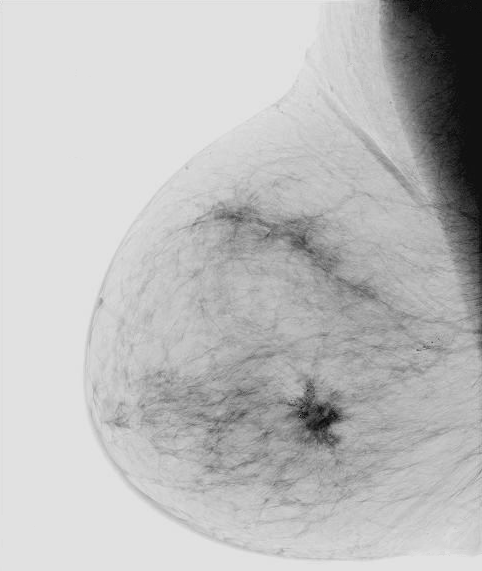
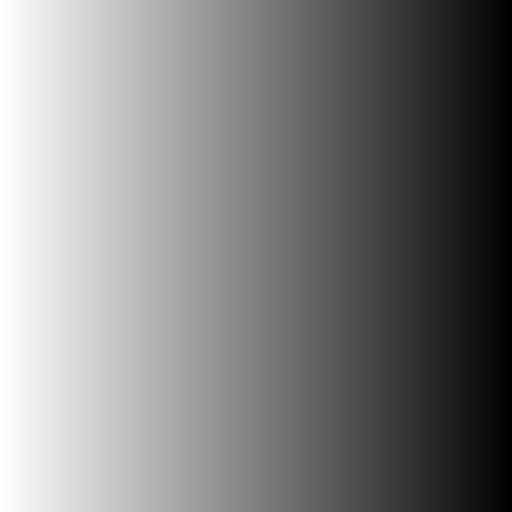
Blog updated

diff --git a/src/app/blog/cg-lab/[slug]/labContents.ts b/src/app/blog/cg-lab/[slug]/labContents.ts
@@ -104,7 +104,7 @@ bt3,
 "",
 `In Python, **OpenCV** represents images as NumPy arrays with shape ${bt}(height, width, channels)${bt}.`,
 "",
-"> All examples below use **lena.png** — the classic test image from Gonzalez's Digital Image Processing book (Fig. 2.x).",
+"> All examples below use **Fig0630 — Strawberries** from Gonzalez's Digital Image Processing book (Fig. 6.30). You can use any `.png` or `.jpg` file.",
 "",
 "## Read & Display Image",
 "",
@@ -112,11 +112,11 @@ bt3 + "python",
 "import cv2",
 "import matplotlib.pyplot as plt",
 "",
-"img = cv2.imread('lena.png')              # reads as BGR",
+"img = cv2.imread('strawberries.png')      # reads as BGR",
 "img_rgb = cv2.cvtColor(img, cv2.COLOR_BGR2RGB)",
 "",
 "plt.imshow(img_rgb)",
-"plt.title('Lena — Original')",
+"plt.title('Strawberries — Original')",
 "plt.axis('off')",
 "plt.show()",
 bt3,
@@ -140,17 +140,19 @@ bt3 + "python",
 'print(f"Total pixels: {img.shape[0] * img.shape[1]}")',
 bt3,
 "",
-"For the Lena image the output is:",
+"For the Strawberries image (Fig0630) the output is:",
 "",
 bt3,
-"Shape    : (512, 512, 3)",
-"Height   : 512 px",
-"Width    : 512 px",
+"Shape    : (666, 666, 3)",
+"Height   : 666 px",
+"Width    : 666 px",
 "Channels : 3",
-"Total pixels: 262144",
+"Total pixels: 443556",
 bt3,
 "",
 "## Load from PC Storage",
+"",
+"> No visual output for this task — it is code-only. The image loads silently into memory.",
 "",
 bt3 + "python",
 "import os",
@@ -177,6 +179,8 @@ bt3 + "python",
 bt3,
 "",
 "## Read 1000 Images",
+"",
+"> No visual output for this task — images are loaded into a list in memory for batch processing.",
 "",
 bt3 + "python",
 "import glob",
@@ -241,32 +245,32 @@ bt3,
 "cg-lab-3-intensity-transformations": [
 "## What are Intensity Transformations?",
 "",
-`Intensity transformations change pixel values based on a mapping function ${bt}s = T(r)${bt}, where ${bt}r${bt} is the input intensity and ${bt}s${bt} is the output intensity. These are **point operations** — each pixel is processed independently.`,
+`Intensity transformations change pixel values based on a mapping function ${bt}s = T(r)${bt}, where ${bt}r${bt} is the input intensity and ${bt}s${bt} is the output intensity. These are **point operations** \u2014 each pixel is processed independently.`,
 "",
-"> Reference: Gonzalez & Woods, *Digital Image Processing*, Chapter 3 — Intensity Transformations and Spatial Filtering.",
+"> Reference: Gonzalez & Woods, *Digital Image Processing*, Chapter 3 \u2014 Intensity Transformations and Spatial Filtering.",
 "",
 "## Image Complement",
 "",
 `The complement of an image inverts every pixel: ${bt}s = L - 1 - r${bt} where L = 256.`,
 "",
-"Dark regions become bright and vice versa. This is particularly useful for **enhancing white or grey detail in dark regions**.",
+"Dark regions become bright and vice versa. The **intensity ramp** (Gonzalez Fig 3.7a) is the perfect example — a smooth gradient from black to white, and its complement shows the exact reverse: white to black.",
 "",
 bt3 + "python",
 "import cv2",
 "import numpy as np",
 "import matplotlib.pyplot as plt",
 "",
-"img = cv2.imread('lena.png', cv2.IMREAD_GRAYSCALE)",
+"img = cv2.imread('intensity_ramp.png', cv2.IMREAD_GRAYSCALE)",
 "complement = 255 - img",
 "",
 "fig, axes = plt.subplots(1, 2, figsize=(10, 5))",
-"axes[0].imshow(img, cmap='gray');        axes[0].set_title('Original')",
+"axes[0].imshow(img, cmap='gray');        axes[0].set_title('Original (Intensity Ramp)')",
 "axes[1].imshow(complement, cmap='gray'); axes[1].set_title('Complement')",
 "for ax in axes: ax.axis('off')",
 "plt.show()",
 bt3,
 "",
-"**Application:** Used in medical imaging — X-ray films appear as negatives; taking the complement gives a more intuitive bright-bone-on-dark-background view.",
+"**Application:** The intensity ramp is the ideal demo for complement — every intensity level is visibly flipped, making s = 255 − r crystal clear.",
 "",
 "**Drawback:** No new information is created; it is purely a display preference change.",
 "",
@@ -278,20 +282,22 @@ bt3,
 "- **γ > 1** → darkens the image (compresses dark range)",
 "- **γ = 1** → no change",
 "",
+"> Image used: **Washed-out aerial image** (Gonzalez Fig 3.9) — low contrast, ideal for gamma brightening demo.",
+"",
 bt3 + "python",
 "def gamma_correction(image, gamma=1.0):",
 "    normalized = image / 255.0",
 "    corrected  = np.power(normalized, gamma) * 255",
 "    return corrected.astype(np.uint8)",
 "",
-"img_color = cv2.imread('lena.png')",
-"img_color = cv2.cvtColor(img_color, cv2.COLOR_BGR2RGB)",
+"img = cv2.imread('washed_aerial.png', cv2.IMREAD_GRAYSCALE)",
 "",
 "fig, axes = plt.subplots(1, 3, figsize=(15, 5))",
-"axes[0].imshow(img_color);                          axes[0].set_title('Original (γ=1.0)')",
-"axes[1].imshow(gamma_correction(img_color, 0.4));   axes[1].set_title('γ = 0.4  (Brighter)')",
-"axes[2].imshow(gamma_correction(img_color, 2.5));   axes[2].set_title('γ = 2.5  (Darker)')",
+"axes[0].imshow(img,                        cmap='gray'); axes[0].set_title('Original (γ=1.0)')",
+"axes[1].imshow(gamma_correction(img, 0.4), cmap='gray'); axes[1].set_title('γ = 0.4  (Brighter)')",
+"axes[2].imshow(gamma_correction(img, 2.5), cmap='gray'); axes[2].set_title('γ = 2.5  (Darker)')",
 "for ax in axes: ax.axis('off')",
+"plt.tight_layout()",
 "plt.show()",
 bt3,
 "",
@@ -301,22 +307,30 @@ bt3,
 "",
 "**Applications:** Monitor calibration, HDR imaging, MRI scan enhancement.",
 "",
+"| γ value | Effect | Use case |",
+"| --- | --- | --- |",
+"| γ < 1 | Brightens — expands shadow range | Underexposed / washed-out images |",
+"| γ = 1 | No change | Neutral |",
+"| γ > 1 | Darkens — compresses highlight range | Overexposed images |",
+"",
 "## Log Transformation",
 "",
 `Log transformation: ${bt}s = c · log(1 + r)${bt} (Gonzalez Eq. 3.2-6).`,
 "",
 "This compresses the high-intensity range and **expands the low-intensity range**, revealing more detail in dark regions.",
 "",
+"> Image used: **DFT spectrum** (Gonzalez Fig 3.5a) — without log, the spectrum is mostly dark; log transform makes the full pattern visible.",
+"",
 bt3 + "python",
-"img = cv2.imread('lena.png', cv2.IMREAD_GRAYSCALE)",
+"img = cv2.imread('dft_no_log.png', cv2.IMREAD_GRAYSCALE)",
 "",
 "c = 255 / np.log(1 + np.max(img))",
 "log_img = c * np.log(1 + img.astype(np.float32))",
 "log_img = np.clip(log_img, 0, 255).astype(np.uint8)",
 "",
 "fig, axes = plt.subplots(1, 2, figsize=(10, 5))",
-"axes[0].imshow(img,     cmap='gray'); axes[0].set_title('Original')",
-"axes[1].imshow(log_img, cmap='gray'); axes[1].set_title('Log Transformed')",
+"axes[0].imshow(img,     cmap='gray'); axes[0].set_title('DFT Spectrum (No Log)')",
+"axes[1].imshow(log_img, cmap='gray'); axes[1].set_title('After Log Transform')",
 "for ax in axes: ax.axis('off')",
 "plt.show()",
 bt3,
@@ -330,26 +344,45 @@ bt3,
 "",
 "## Image Subtraction",
 "",
-"Subtracting two images of the same scene (one with a person, one without) highlights what is different — the absent person.",
+"By subtracting two images of the same scene, we can find **what changed** between them — specifically which person (or object) is present in the first image but absent in the second.",
+"",
+"**How it works:**",
+"- Take two images of the same scene",
+"- Image 1 has the person, Image 2 does not",
+`- Apply ${bt}cv2.absdiff()${bt} to find pixel-level differences`,
+"- Threshold the result to highlight the changed region",
 "",
 bt3 + "python",
-"img1 = cv2.imread('scene_with_person.png',    cv2.IMREAD_GRAYSCALE)",
-"img2 = cv2.imread('scene_without_person.png', cv2.IMREAD_GRAYSCALE)",
+"import cv2",
+"import numpy as np",
+"import matplotlib.pyplot as plt",
+"",
+"# Read both images as grayscale",
+"img1 = cv2.imread('scene_with_person.png',    cv2.IMREAD_GRAYSCALE)  # person present",
+"img2 = cv2.imread('scene_without_person.png', cv2.IMREAD_GRAYSCALE)  # person absent",
+"",
+"# Resize to same size if needed",
 "img2 = cv2.resize(img2, (img1.shape[1], img1.shape[0]))",
 "",
+"# Compute absolute difference",
 "diff = cv2.absdiff(img1, img2)",
+"",
+"# Threshold to get binary mask of changed regions",
 "_, diff_thresh = cv2.threshold(diff, 30, 255, cv2.THRESH_BINARY)",
 "",
+"# Display result",
 "fig, axes = plt.subplots(1, 3, figsize=(15, 5))",
-"axes[0].imshow(img1,        cmap='gray'); axes[0].set_title('Image 1 (with person)')",
-"axes[1].imshow(img2,        cmap='gray'); axes[1].set_title('Image 2 (without person)')",
-"axes[2].imshow(diff_thresh, cmap='gray'); axes[2].set_title('Absent Person (Difference)')",
+"axes[0].imshow(img1,        cmap='gray'); axes[0].set_title('Image 1 — With Person')",
+"axes[1].imshow(img2,        cmap='gray'); axes[1].set_title('Image 2 — Without Person')",
+"axes[2].imshow(diff_thresh, cmap='gray'); axes[2].set_title('Difference — Absent Person')",
 "for ax in axes: ax.axis('off')",
 "plt.tight_layout()",
 "plt.show()",
 bt3,
 "",
-"**Application:** Security surveillance, background subtraction in video analytics, motion detection.",
+"**Why threshold = 30?** Small pixel differences (noise, lighting) are ignored. Only significant changes (the person) survive.",
+"",
+"**Application:** Security surveillance, motion detection, background subtraction in video analytics.",
 ].join("\n"),
 
 // ─────────────────────────────────────────────────────────────────────────────

diff --git a/src/app/blog/cg-lab/[slug]/labImages.ts b/src/app/blog/cg-lab/[slug]/labImages.ts
@@ -15,27 +15,30 @@ export const labImages: Record<string, Record<string, ImageEntry | ImageEntry[]>
 
   // ── LAB 2 ──────────────────────────────────────────────────────────────────
   "cg-lab-2-image-basics": {
+    // Task 1 — read & display
     "read-&-display-image": {
       type: "image",
       inputSrc: "/images/cg-lab/lab2_original.png",
       outputSrc: "/images/cg-lab/lab2_display.png",
-      inputLabel: "Strawberries — Fig0630 (BGR loaded)",
-      outputLabel: "Displayed correctly (BGR→RGB) + RGB Histogram",
-      caption: "OpenCV loads in BGR order — converting to RGB before display gives correct colors.",
+      inputLabel: "Strawberries — Fig0630 (BGR loaded by OpenCV)",
+      outputLabel: "Correctly displayed (BGR→RGB converted)",
+      caption: "OpenCV loads in BGR order — cv2.cvtColor(img, COLOR_BGR2RGB) fixes the colors before display.",
     },
+    // Task 2 — dimensions
     "image-dimensions-(rgb)": {
       type: "graph",
       graphVariant: "bar",
-      inputLabel: "Image Array Shape",
-      outputLabel: "RGB Channel Distribution",
-      caption: "Shape: (height, width, channels) — 3 channels for RGB/BGR, 1 for grayscale.",
+      inputLabel: "img.shape — (666, 666, 3)",
+      outputLabel: "3 Channels: R, G, B distribution",
+      caption: "img.shape returns (height=666, width=666, channels=3). Total pixels = 443,556. channels=3 means BGR color image.",
     },
+    // Task 5 — audio/video (Tasks 3 & 4 are code-only, no image needed)
     "read-audio-&-video": {
       type: "graph",
       graphVariant: "waveform",
-      inputLabel: "Audio File (.wav) — raw signal",
-      outputLabel: "Waveform Plot (amplitude vs time)",
-      caption: "Librosa reads audio as a 1D amplitude array. Sample rate = 22050 Hz by default.",
+      inputLabel: "Audio file (.wav) — raw signal",
+      outputLabel: "Waveform plot (amplitude vs time)",
+      caption: "librosa.load() reads audio as a 1D NumPy array. waveshow() plots amplitude over time.",
     },
   },
 
@@ -45,9 +48,9 @@ export const labImages: Record<string, Record<string, ImageEntry | ImageEntry[]>
       type: "image",
       inputSrc: "/images/cg-lab/lab3_xray_input.png",
       outputSrc: "/images/cg-lab/lab3_xray_complement.png",
-      inputLabel: "Breast X-Ray (Gonzalez Fig 3.4)",
-      outputLabel: "Complement — dark/light inverted",
-      caption: "Gonzalez Fig 3.5 — complement of X-ray reveals fine bone detail clearly.",
+      inputLabel: "Intensity Ramp (Gonzalez Fig 3.7a)",
+      outputLabel: "Complement — intensities inverted",
+      caption: "s = 255 − r — the complement of a ramp clearly shows how every intensity level gets flipped.",
     },
     "gamma-correction": {
       type: "image",

diff --git a/lab-codes/generate_all_images.py b/lab-codes/generate_all_images.py
@@ -29,6 +29,7 @@ CAMERAMAN   = gp("DIP3E_CH02_Original_Images", "DIP3E_Original_Images_CH02", "Fi
 BLD_IMAGE   = gp("DIP3E_CH04_Original_Images", "DIP3E_Original_Images_CH04", "Fig0438(a)(bld_600by600).tif")
 STRAWBERRY_LAB2 = gp("DIP3E_CH06_Original_Images", "DIP3E_Original_Images_CH06", "Fig0630(01)(strawberries_fullcolor).tif")
 XRAY        = gp("DIP3E_CH03_Original_Images", "DIP3E_Original_Images_CH03", "Fig0304(a)(breast_digital_Xray).tif")
+INTENSITY_RAMP = gp("DIP3E_CH03_Original_Images", "DIP3E_Original_Images_CH03", "Fig0307(a)(intensity_ramp).tif")
 WASHED      = gp("DIP3E_CH03_Original_Images", "DIP3E_Original_Images_CH03", "Fig0309(a)(washed_out_aerial_image).tif")
 DFT_NOLOG   = gp("DIP3E_CH03_Original_Images", "DIP3E_Original_Images_CH03", "Fig0305(a)(DFT_no_log).tif")
 EINSTEIN_LO = gp("DIP3E_CH02_Original_Images", "DIP3E_Original_Images_CH02", "Fig0241(a)(einstein low contrast).tif")
@@ -118,12 +119,12 @@ if bld is not None:
 # ─────────────────────────────────────────────────────────────────────────────
 print("\n[Lab 3] Intensity Transformations")
 
-# — Complement (X-Ray) —
-xray = read_tif(XRAY)
-if xray is not None:
-    xray_gray  = gray(xray)
-    complement = 255 - xray_gray
-    save('lab3_xray_input.png',      xray_gray)
+# — Complement (Intensity Ramp) —
+ramp = read_tif(INTENSITY_RAMP)
+if ramp is not None:
+    ramp_gray  = gray(ramp)
+    complement = 255 - ramp_gray
+    save('lab3_xray_input.png',      ramp_gray)
     save('lab3_xray_complement.png', complement)
 
 # — Gamma (Washed aerial) —

diff --git a/lab-codes/fix_complement.py b/lab-codes/fix_complement.py
@@ -1,0 +1,20 @@
+import re
+
+path = r'c:\Users\USER\tasnim-jannat\src\app\blog\cg-lab\[slug]\labContents.ts'
+content = open(path, encoding='utf-8').read()
+
+old = "\"img = cv2.imread('lena.png', cv2.IMREAD_GRAYSCALE)\","
+new = "\"img = cv2.imread('intensity_ramp.png', cv2.IMREAD_GRAYSCALE)\","
+
+old2 = "\"axes[0].imshow(img, cmap='gray');        axes[0].set_title('Original')\","
+new2 = "\"axes[0].imshow(img, cmap='gray');        axes[0].set_title('Original (Intensity Ramp)')\","
+
+old3 = "\"**Application:** Used in medical imaging \u2014 X-ray films appear as negatives; taking the complement gives a more intuitive bright-bone-on-dark-background view.\","
+new3 = "\"**Application:** The intensity ramp (Fig 3.7a) is the ideal demo for complement \u2014 a smooth gradient from black to white becomes white to black, perfectly illustrating s = 255 \u2212 r.\","
+
+content = content.replace(old, new, 1)
+content = content.replace(old2, new2, 1)
+content = content.replace(old3, new3, 1)
+
+open(path, 'w', encoding='utf-8').write(content)
+print("DONE")
